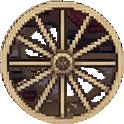
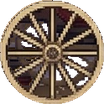
Place de la cavalerie, diligence à l'arrêt et chevaux animés, arbres fournis partout, images allégées (v0.1.110)
Claude-Session: https://claude.ai/code/session_01AW7DcpGK4sRo7mybjR7Eei

diff --git a/src/render/renderer.js b/src/render/renderer.js
@@ -1,3 +1,4 @@
+import { signBoard } from './pixfont.js';
 import { drawDecor, decor, VEIN_DECOR, drawCoachDecor } from './decors.js';
 import { folkSprite, CAST } from './folk.js';
 import { coachBody, coachWheel, horse, locoSprite, wagonSprite, fountainSprite, houseSprite } from './props.js';
@@ -141,7 +142,7 @@ function drawRainbow(c, fx, fy, minute, R) {
   c.restore();
 }
 import { buildGround, drawWaterShimmer, LIGHTS, drawSoil } from './ground.js';
-import { heroToolSheet, drawHeroPick, drawChar, drawTree, drawRock, drawCrop, drawAnimal, drawSlime, drawSwing, treeSprite, KIND_SPRITE } from './sprites.js';
+import { heroToolSheet, drawHeroPick, drawChar, drawTree, drawRock, drawCrop, drawAnimal, drawSlime, drawSwing, treeSprite, pineSprite, KIND_SPRITE } from './sprites.js';
 import { buildInterior } from './interiors.js';
 import { buildParc, buildBiome, buildQuartier, buildTown, TOWN_LIGHTS } from './town.js';
 import { buildWest } from './west.js';
@@ -180,7 +181,7 @@ function edgePattern(kind, season) {
   if (typeof document === 'undefined') return null;
   const c = document.createElement('canvas'); c.width = c.height = 128; const g = c.getContext('2d');
   if (kind === 'roche') { g.fillStyle = '#5a5058'; g.fillRect(0, 0, 128, 128); for (let i = 0; i < 40; i++) { const x = (i * 53) % 128, y = (i * 37) % 128, r = 6 + (i * 7) % 10; g.fillStyle = ['#6a6068', '#7a7078', '#4a4248'][i % 3]; g.beginPath(); g.ellipse(x, y, r, r * .7, 0, 0, 7); g.fill(); } }
-  else { g.fillStyle = '#2c5a2a'; g.fillRect(0, 0, 128, 128); for (let y = -24; y < 128; y += 14) for (let x = -16; x < 128; x += 16) { const im = treeSprite(season, ((x * 7 + y * 13) & 0xffff) % 4); if (im) g.drawImage(im, x + ((y / 14) % 2 ? 8 : 0) - 8, y - 20); } }
+  else { g.fillStyle = '#2c5a2a'; g.fillRect(0, 0, 128, 128); for (let y = -24; y < 128; y += 14) for (let x = -16; x < 128; x += 16) { const im = (((x * 3 + y * 5) >> 4) % 5 === 0 ? treeSprite : pineSprite)(season, ((x * 7 + y * 13) & 0xffff) % 4); if (im) g.drawImage(im, x + ((y / 14) % 2 ? 8 : 0) - 8, y - 20); } }
   return (EDGE_PAT[k] = g.createPattern(c, 'repeat'));
 }
 // Farmwest : locomotive à vapeur qui entre en gare par le nord sur la voie (x1-2) et s'arrête le long du quai.
@@ -194,10 +195,30 @@ function drawLoco(c, t, now, hero, leave = 0) {   // 18/11 (soir) : locomotive e
 }
 let TRAIN_EL; const trainImage = () => { if (TRAIN_EL === undefined && typeof Image !== 'undefined') { TRAIN_EL = null; const im = new Image(); im.onload = () => { TRAIN_EL = im; }; im.src = TRAIN_IMG.url; } return TRAIN_EL; };
 // Farmwest : diligence tirée par deux chevaux, cocher en chapeau sur le siège ; roues qui tournent.
-function drawCoach(c, wx, wy, now) {   // 18/11 (soir) : diligence « pixel moderne » (src/render/props.js) : caisse, cocher, chevaux au trot, roues qui tournent
+// 21/11 : l'eau de la fontaine au cheval cabré : deux jets en arc depuis la bouche du cheval, gouttes qui retombent,
+// filets des têtes de cheval sur le bord et rides dans le bassin (fractions de l'image fournie).
+function fountainWater(c, cx, by, fw, now) {
+  const fh = fw * 648 / 771, x0 = cx - fw / 2, y0 = by - fh, P = (fx, fy) => [x0 + fx * fw, y0 + fy * fh];
+  const arcs = [[[.47, .13], [.30, .02], [.22, .62]], [[.53, .13], [.70, .02], [.80, .62]]];
+  c.save();
+  for (const [a, m, b] of arcs) for (let k = 0; k < 14; k++) {
+    const t = ((now / 900) + k / 14) % 1, u = 1 - t, [ax, ay] = P(...a), [mx, my] = P(...m), [bx, bz] = P(...b);
+    const x = u * u * ax + 2 * u * t * mx + t * t * bx, y = u * u * ay + 2 * u * t * my + t * t * bz;
+    c.fillStyle = `rgba(${200 + (k % 3) * 20},240,255,${.55 + .35 * Math.sin(t * 3.1)})`; c.fillRect(x - .6, y - .6, 1.3, 1.3);
+  }
+  for (const [fx, fy] of [[.12, .66], [.88, .66], [.42, .55], [.58, .55]]) for (let k = 0; k < 4; k++) {   // petits filets qui tombent dans le bassin
+    const t = ((now / 500) + k / 4) % 1, [x, y] = P(fx, fy); c.fillStyle = `rgba(210,240,255,${.7 - t * .5})`; c.fillRect(x - .5, y + t * fh * .08, 1, 1.2);
+  }
+  for (let k = 0; k < 3; k++) {   // rides
+    const t = ((now / 1600) + k / 3) % 1, [x, y] = P(.5, .66); c.strokeStyle = `rgba(220,245,255,${.45 * (1 - t)})`; c.lineWidth = .6;
+    c.beginPath(); c.ellipse(x + (k - 1) * fw * .18, y, 2 + t * fw * .08, (2 + t * fw * .08) * .35, 0, 0, 7); c.stroke();
+  }
+  c.restore();
+}
+function drawCoach(c, wx, wy, now, moving = true) {   // 18/11 (soir) : diligence « pixel moderne » (src/render/props.js) : caisse, cocher, chevaux au trot, roues qui tournent
   const X = Math.round(wx * 16), Y = Math.round(wy * 16), fr = (now / 110 | 0) % 4, st = (now / 70 | 0) % 8;
-  c.fillStyle = 'rgba(30,15,5,.3)'; c.beginPath(); c.ellipse(X + 12, Y + 9, 52, 5, 0, 0, 7); c.fill();
-  if (drawCoachDecor(c, 'diligence_droite', X + 18, Y + 11 + ((now / 160 | 0) % 2), 126, now)) return;   // lot 32 : diligence de la planche fournie (petit cahot, roues qui tournent)
+  if (drawCoachDecor(c, 'diligence_droite', X + 18, Y + 11 + (moving ? (now / 160 | 0) % 2 : 0), 126, now, moving)) return;   // 21/11 : plus d'ombre ; chevaux animés
+  c.fillStyle = 'rgba(30,15,5,.3)'; c.beginPath(); c.ellipse(X + 12, Y + 9, 52, 5, 0, 0, 7); c.fill();   // lot 32 : diligence de la planche fournie (petit cahot, roues qui tournent)
   const h1 = horse('#5a3a22', fr), h2 = horse('#8a5a32', (fr + 2) % 4), body = coachBody(), wb = coachWheel(10, st), wf = coachWheel(8, st);
   if (h1) c.drawImage(h1, X + 40, Y - 21);
   if (body) c.drawImage(body, X - 40, Y - 64);
@@ -369,6 +390,10 @@ let swing = null;
     ctx.imageSmoothingEnabled = false;
     if (!cache.__pal) { const col = scene !== 'wild' && scene !== 'grange'; harmonize(cache, col); for (const o of cache.__over || []) { const k = document.createElement('canvas'); k.width = o.w; k.height = o.h; k.getContext('2d').drawImage(o.im, 0, 0); o.im = harmonize(k, col) || k; } }   // 19/11 : bâtiments retenus, mêmes couleurs que le décor   // lot 11g : palette unique + contours colorés (une fois par décor)
     ctx.drawImage(cache, 0, 0);
+    if (scene === 'gare') {   // 21/11 : la gare est moins haute que l'écran : on prolonge sa première et sa dernière rangée (la voie ferrée continue)
+      for (let y = -T; y > camY - T; y -= T) ctx.drawImage(cache, 0, 0, MW, T, 0, y, MW, T);
+      for (let y = MH; y < camY + vh + T; y += T) ctx.drawImage(cache, 0, MH - T, MW, T, 0, y, MW, T);
+    }
     const drawSigns = (only) => { if (!(cache.__signs && cache.__signs.length)) return;   // enseignes nettes (19/11 : redessinées si un toit vient de recouvrir le héros)   // enseignes réécrites nettes, à la résolution de l'écran (lisibles à tout zoom)
       ctx.save(); ctx.setTransform(1, 0, 0, 1, 0, 0);
       for (const sg of cache.__signs) { if (only && !only.some(r => sg.x < r[2] && sg.x + sg.w > r[0] && sg.y < r[3] && sg.y + sg.h > r[1])) continue;
@@ -519,7 +544,8 @@ let swing = null;
     // (bijou d'Igor retiré le 17/11 : quête supprimée)
     if (scene === 'gare' && S.intro && S.intro.step !== 'done' && !(g.ride && g.ride.scene === 'gare' && g.ride.t > 6)) list.push({ z: 0.5, d: () => drawLoco(ctx, S.intro.step === 'train' ? (g.introT || 0) / 1000 : 99, now, g.introHidden ? S.look : null, g.ride && g.ride.scene === 'gare' ? g.ride.t : 0) });   // lot 8 : elle repart une fois le héros dans la diligence   // Farmwest : la locomotive à quai
     if (g.cueille && g.cueille.scene === scene) { const q = g.cueille; list.push({ z: 9990, d: () => { const x = q.x * T, y = q.y * T - 6; ctx.fillStyle = 'rgba(0,0,0,.6)'; ctx.fillRect(x - 1, y - 1, 18, 5); ctx.fillStyle = '#7ad04a'; ctx.fillRect(x, y, Math.round(16 * q.n / CUEILLE_HITS), 3); } }); }   // jauge de cueillette
-    if (g.ride && g.ride.scene === scene) list.push({ z: g.ride.y + .2, d: () => drawCoach(ctx, g.ride.x, g.ride.y, now) });   // la diligence
+    if (!g.ride && g.parkedCoach && g.parkedCoach.scene === scene) { const P = g.parkedCoach; list.push({ z: P.y + .2, d: () => drawCoach(ctx, P.x, P.y, now, false) }); }
+    if (g.ride && g.ride.scene === scene) { const R = g.ride, mv = R._px == null || Math.abs(R.x - R._px) + Math.abs(R.y - R._py) > 1e-4; R._px = R.x; R._py = R.y; if (mv) R._mt = now; list.push({ z: R.y + .2, d: () => drawCoach(ctx, R.x, R.y, now, now - (R._mt || 0) < 150) }); }   // la diligence
     if (scene === 'farm' && testSwordHere(S)) list.push({ z: TEST_SWORD.y + .4, d: () => {
       const b = Math.round(Math.sin(now / 250) * 1.5), x = TEST_SWORD.x * T, y = TEST_SWORD.y * T;
       ctx.fillStyle = 'rgba(0,0,0,.25)'; ctx.fillRect(x + 3, y + 12, 10, 2);
@@ -609,8 +635,12 @@ let swing = null;
       const n = Math.floor(10 * hits / ROCK_HITS);   // fissures qui s'étendent (une tous les 1 000 coups)
       for (let k = 0; k < n; k++) { const cx = 10 + (k * 23) % (w - 20), cy = -12 - (k * 37) % (Hh - 30); for (let s = 0; s < 6; s++) R2(cx + (s % 2) * 2, cy - s * 3, 1, 3, '#2a2620'); }
     } }); }
-    if (scene === 'rondpoint' && decor('fontaine')) list.push({ z: 10.6, d: () => drawDecor(ctx, 'fontaine', 12.5 * T + 8, 8.5 * T + 8 + 34 * .62 + 8, 88) });   // lot 32 : fontaine au cheval cabré
-    if (scene === 'town' && decor('fontaine')) list.push({ z: TOWN_B2.F.y + 2.6, d: () => drawDecor(ctx, 'fontaine', TOWN_B2.F.x * T + 24, TOWN_B2.F.y * T + 24 + 23 * .62 + 8, 60) });
+    if (scene === 'rondpoint' && decor('fontaine')) list.push({ z: 10.6, d: () => { const fw = 88, cx = 12.5 * T + 8, by = 8.5 * T + 8 + 34 * .62 + 8; drawDecor(ctx, 'fontaine', cx, by, fw); fountainWater(ctx, cx, by, fw, now); } });   // lot 32 : fontaine au cheval cabré ; 21/11 : l'eau coule
+    if (scene === 'rondpoint') list.push({ z: 6.9, d: () => {   // 21/11 : pancarte « Place de la cavalerie »
+      const R2 = (x, y, w, h, k) => { ctx.fillStyle = k; ctx.fillRect(x, y, w, h); }, px = 16 * T + 8, py = 6 * T;
+      R2(px - 1, py - 2, 3, 17, '#5b3a22'); R2(px - 3, py + 14, 7, 2, 'rgba(30,15,5,.3)');
+      signBoard(R2, px, py - 6, 'PLACE DE LA CAVALERIE');
+    } });
     if (scene === 'town' && decor('saloon')) list.push({ z: TOWN_B2.R.y + TOWN_B2.R.h - .05, d: () => drawDecor(ctx, 'saloon', (TOWN_B2.R.x + TOWN_B2.R.w / 2) * T, (TOWN_B2.R.y + TOWN_B2.R.h) * T + 7, 112) });   // lot 32 : le saloon
     if (scene === 'place') list.push({ z: DUMP_POS.y + .9, d: () => {   // 20/11 : la décharge (benne et tas de ferraille)
       const x = DUMP_POS.x * T, y = DUMP_POS.y * T, R2 = (a, b, w, h, k) => { ctx.fillStyle = k; ctx.fillRect(x + a, y + b, w, h); };

diff --git a/src/render/town.js b/src/render/town.js
@@ -1,4 +1,4 @@
-import { decor } from './decors.js';
+import { decor, drawDecor } from './decors.js';
 import { fountainSprite, facadeSprite, houseSprite , blit } from './props.js';
 import { paintGrass, paintOchre, paintRoad, paintPlanks, softEdge, OCHRE, paintRiver, paintBridge, paintCliff, autotile, ROAD, canopy, dress, roofFor, softPatches, barrel } from './terrain.js';
 // Centre du village pré-rendu : place pavée, halle du marché, panneau d'affichage,
@@ -215,7 +215,7 @@ export function buildTown(season) {
   }, { wall: '#8a6a4a' });
   // fontaine (x11-13, y8-10)
   const fx = TOWN_B.F.x * T + 24, fy = TOWN_B.F.y * T + 24;
-  if (!decor('fontaine')) { const im = fountainSprite(23); if (im) g.drawImage(im, Math.round(fx - im.width / 2), Math.round(fy + 23 * .62 + 6 - im.height)); }   // 18/11 (soir) : fontaine « pixel moderne »
+  if (false) { const im = fountainSprite(23); if (im) g.drawImage(im, Math.round(fx - im.width / 2), Math.round(fy + 23 * .62 + 6 - im.height)); }   // 18/11 (soir) : fontaine « pixel moderne »
 
   for (let y = 0; y < H; y++) for (let x = 0; x < W; x++) {
     const ch = L[y][x], px = x * T, py = y * T;
@@ -225,7 +225,7 @@ export function buildTown(season) {
       r2(7, 7, 2, 25, '#2b2730'); r2(5, 30, 6, 2, '#2b2730'); r2(4, 1, 8, 7, '#2b2730'); r2(5, 2, 6, 5, '#ffd98a'); r2(3, 0, 10, 2, '#3a3540'); blit(g, lc, px, py - 17); }
   }
   canopy(g, W, H, (x, y) => (L[y] || '')[x] === 'T' && [[1, 0], [-1, 0], [0, 1], [0, -1]].filter(([a, b]) => (L[y + b] || '')[x + a] === 'T').length >= 2, season);   // lot 11b : canopée continue
-  for (let y = 0; y < H; y++) for (let x = 0; x < W; x++) if (L[y][x] === 'T') g.drawImage(treeSprite(season, (x + y) % 4), x * T - 9, y * T - 28);
+  for (let y = 0; y < H; y++) for (let x = 0; x < W; x++) if (L[y][x] === 'T') { if ([[1, 0], [-1, 0], [0, 1], [0, -1], [2, 0], [-2, 0], [0, 2], [0, -2]].some(([a, b]) => (L[y + b] || '')[x + a] === 'D')) { drawDecor(g, 'broussaille', x * T + 8, y * T + 15, 13); continue; } g.drawImage(treeSprite(season, (x + y) % 4), x * T - 9, y * T - 28); }   // 21/11 : rien qui déborde sur une sortie
   // (villa du Maire effacée le 17/11 : Manu vit dans son ranch)
   drawHedges(R, LAYOUTS.town);   // haies de bordure
   // lot 11f : décor dense (tonneaux, caisses, fleurs, cailloux)
@@ -334,7 +334,7 @@ export function buildQuartier(season) {
   for (const [x, yb] of [[3 * T, 10], [33 * T, 10], [20 * T, 19], [28 * T, 19]]) { const by = yb * T; R(x, by + 6, 22, 3, '#8a5a32'); R(x, by + 6, 22, 1, '#c99560'); R(x + 1, by + 9, 2, 3, '#5b3a22'); R(x + 19, by + 9, 2, 3, '#5b3a22'); } for (const x of []) { R(x, 10 * T + 6, 22, 3, '#8a5a32'); R(x, 10 * T + 6, 22, 1, '#c99560'); R(x + 1, 10 * T + 9, 2, 3, '#5b3a22'); R(x + 19, 10 * T + 9, 2, 3, '#5b3a22'); }
   drawHedges(R, L);
   canopy(g, W, H, (x, y) => (L[y] || '')[x] === 'T' && [[1, 0], [-1, 0], [0, 1], [0, -1]].filter(([a, b]) => (L[y + b] || '')[x + a] === 'T').length >= 2, season);   // lot 11b : canopée continue
-  for (let y = 0; y < H; y++) for (let x = 0; x < W; x++) if (L[y][x] === 'T') g.drawImage(treeSprite(season, (x + y) % 4), x * T - 9, y * T - 28);
+  for (let y = 0; y < H; y++) for (let x = 0; x < W; x++) if (L[y][x] === 'T') { if ([[1, 0], [-1, 0], [0, 1], [0, -1], [2, 0], [-2, 0], [0, 2], [0, -2]].some(([a, b]) => (L[y + b] || '')[x + a] === 'D')) { drawDecor(g, 'broussaille', x * T + 8, y * T + 15, 13); continue; } g.drawImage(treeSprite(season, (x + y) % 4), x * T - 9, y * T - 28); }   // 21/11 : rien qui déborde sur une sortie
   return c;
 }
 
@@ -429,7 +429,7 @@ export function buildParc(season) {
   for (let k = 0; k < W * T; k += 12) { R(k, 8 * T + 2 + Math.round(Math.sin(k / 30) * 3), 2, 2, ['#f2c832', '#e8402a', '#3a8ae0', '#4ab04a'][(k / 12 | 0) % 4]); }   // guirlande
   signBoard(R, 17 * T, 21 * T, 'FÊTE FORAINE');
   canopy(g, W, H, (x, y) => (L[y] || '')[x] === 'T' && [[1, 0], [-1, 0], [0, 1], [0, -1]].filter(([a, b]) => (L[y + b] || '')[x + a] === 'T').length >= 2, season);   // lot 11b : canopée continue
-  for (let y = 0; y < H; y++) for (let x = 0; x < W; x++) if (L[y][x] === 'T') g.drawImage(treeSprite(season, (x + y) % 4), x * T - 9, y * T - 28);
+  for (let y = 0; y < H; y++) for (let x = 0; x < W; x++) if (L[y][x] === 'T') { if ([[1, 0], [-1, 0], [0, 1], [0, -1], [2, 0], [-2, 0], [0, 2], [0, -2]].some(([a, b]) => (L[y + b] || '')[x + a] === 'D')) { drawDecor(g, 'broussaille', x * T + 8, y * T + 15, 13); continue; } g.drawImage(treeSprite(season, (x + y) % 4), x * T - 9, y * T - 28); }   // 21/11 : rien qui déborde sur une sortie
   return c;
 }
 

diff --git a/src/render/sprites.js b/src/render/sprites.js
@@ -1,4 +1,4 @@
-import { drawDecor } from './decors.js';
+import { drawDecor, decor } from './decors.js';
 // Sprites pixel art procéduraux, ombrés et contourés, mis en cache.
 import { CFG } from '../config.js';
 import { CROPS } from '../data/crops.js';
@@ -405,7 +405,7 @@ const TREE_PAL = [
   ['#7e3417', '#c25e1d', '#eea13a', null],
   ['#4f5d63', '#7d9096', '#eef5f7', null]
 ];
-export function treeSprite(season, v) {
+function treeSprite0(season, v) {
   return cache('t' + season + v, () => {
     const s = canvas(34, 44), c = s.getContext('2d'), p = TREE_PAL[season], r = rng(v * 97 + 3);   // 7d : canopée sur 0-31
     // tronc + racines
@@ -428,7 +428,7 @@ export function treeSprite(season, v) {
 }
 // Sapin : étages de branches en triangle, reste vert l'hiver (neige sur les branches).
 const PINE_PAL = [['#1f4a34', '#2f6b47', '#4f9461'], ['#1c4530', '#2b6342', '#468a58'], ['#1f4a34', '#2f6b47', '#5a9461'], ['#1f4234', '#2c5c45', '#eef5f7']];
-export function pineSprite(season, v) {
+function pineSprite0(season, v) {
   return cache('p' + season + v, () => {
     const s = canvas(34, 46), c = s.getContext('2d'), p = PINE_PAL[season], r = rng(v * 53 + 11);
     c.fillStyle = '#5b3a22'; c.fillRect(15, 34, 4, 10); c.fillStyle = '#7a4f2e'; c.fillRect(15, 34, 1, 10);
@@ -447,7 +447,7 @@ export function pineSprite(season, v) {
 }
 // Bouleau : tronc blanc tacheté de noir, feuillage léger et clair.
 const BIRCH_PAL = [['#4f8a35', '#79b54a', '#b4dc6e'], ['#47802f', '#6fa843', '#a2d062'], ['#b8761a', '#e6ad2c', '#ffe07a'], [null, null, null]];
-export function birchSprite(season, v) {
+function birchSprite0(season, v) {
   return cache('b' + season + v, () => {
     const s = canvas(34, 46), c = s.getContext('2d'), p = BIRCH_PAL[season], r = rng(v * 31 + 7);
     c.fillStyle = '#e9e4d6'; c.fillRect(15, 18, 4, 26); c.fillStyle = '#c9c2b0'; c.fillRect(18, 18, 1, 26);
@@ -488,8 +488,20 @@ export function pebbleSprite(v) {
     return outline(s, '#4a2a18');
   });
 }
+// 21/11 (demande de l'utilisateur) : tous les arbres viennent de la planche fournie — chêne → arbre en fleurs, sapin → sapin,
+// bouleau → cyprès. Même taille d'image que les anciens arbres (les fonds pré-dessinés restent alignés) ; ancien dessin en secours.
+const TREE_SUB = new Map();
+function viaDecor(orig, name, w) {
+  return (season, v) => {
+    const base = orig(season, v); if (!decor(name)) return base;
+    const k = name + season + ':' + v; let c = TREE_SUB.get(k); if (c) return c;
+    c = canvas(base.width, base.height); const g = c.getContext('2d');
+    drawDecor(g, name, base.width / 2, base.height - 1, w); TREE_SUB.set(k, c); return c;
+  };
+}
+export const treeSprite = viaDecor(treeSprite0, 'arbre_fleurs', 34), pineSprite = viaDecor(pineSprite0, 'sapin', 26), birchSprite = viaDecor(birchSprite0, 'cypres', 14);
 export const KIND_SPRITE = { oak: treeSprite, pine: pineSprite, birch: birchSprite };
-const TREE_DECOR = { pine: 'sapin', cypres: 'cypres', fleurs: 'arbre_fleurs' }, TREE_W = { sapin: 26, cypres: 14, arbre_fleurs: 34 };
+const TREE_DECOR = { pine: 'sapin', cypres: 'cypres', fleurs: 'arbre_fleurs', oak: 'arbre_fleurs', birch: 'cypres' }, TREE_W = { sapin: 26, cypres: 14, arbre_fleurs: 34 };
 const KIND_IDS = ['oak', 'pine', 'birch'];
 // Jeune arbre : pousse (jour 0), arbuste (jour 1), petit arbre (jour 2), puis adulte.
 function saplingSprite(kind, stage, season) {

diff --git a/src/render/decors.js b/src/render/decors.js
@@ -42,12 +42,17 @@ export function drawDecorRot(c, n, cx, cy, w, ang) {
   const s = Math.abs(c.getTransform().a) || 1, im = scaled(n, Math.max(1, Math.round(w * s)), Math.max(1, Math.round(w * s))); if (!im) return false;
   c.save(); c.translate(cx, cy); c.rotate(ang); c.drawImage(im, -w / 2, -w / 2, w, w); c.restore(); return true;
 }
-// La diligence : caisse et chevaux, puis les roues qui tournent (angle selon le temps).
-export function drawCoachDecor(c, n, cx, by, w, now) {
+// La diligence : caisse, chevaux qui trottent (corps et têtes qui dodelinent, en décalé), puis les roues qui tournent.
+// Coordonnées des roues et des chevaux données dans l'image d'origine (626 px de large).
+const COACH_W0 = 626, HORSE_X0 = 385, HEAD_X0 = 540;
+export function drawCoachDecor(c, n, cx, by, w, now, moving = true) {
   const src = decor(n); if (!src || !decor('roue')) return false;
-  const k = w / src.naturalWidth, x0 = cx - w / 2, y0 = by - src.naturalHeight * k;
-  drawDecor(c, n, cx, by, w);
-  const ang = (now / 1000) * 5 * (n === 'diligence_gauche' ? -1 : 1);
-  for (const [wx, wy, r] of COACH_WHEELS[n] || []) drawDecorRot(c, 'roue', x0 + wx * k, y0 + wy * k, 2 * r * k, ang * 62 / r);
+  const k = w / COACH_W0, h = w * src.naturalHeight / src.naturalWidth, x0 = cx - w / 2, y0 = by - h, left = n === 'diligence_gauche';
+  const s = Math.abs(c.getTransform().a) || 1, im = scaled(n, Math.max(1, Math.round(w * s)), Math.max(1, Math.round(h * s)));
+  const sx = im.width / w, part = (a, b, dy) => { const xa = left ? w - b * k : a * k, xb = left ? w - a * k : b * k; c.drawImage(im, xa * sx, 0, (xb - xa) * sx, im.height, x0 + xa, y0 + dy, xb - xa, h); };
+  const t = now / (moving ? 95 : 260), body = Math.round(Math.sin(t)) * (moving ? 1 : .5), head = Math.round(Math.sin(t + 1.4) * (moving ? 1.5 : 1));
+  part(0, HORSE_X0, 0); part(HORSE_X0, HEAD_X0, body); part(HEAD_X0, COACH_W0, body + head);
+  const ang = moving ? (now / 1000) * 5 * (left ? -1 : 1) : 0;
+  for (const [wx, wy, r] of COACH_WHEELS[n] || []) drawDecorRot(c, 'roue', x0 + wx * k, y0 + wy * k * (COACH_W0 / src.naturalWidth) * (src.naturalWidth / COACH_W0), 2 * r * k, ang * 62 / r);
   return true;
 }

diff --git a/src/render/west.js b/src/render/west.js
@@ -134,9 +134,11 @@ export function buildWest(name, season) {
   { const spots = []; for (let y = 2; y < H - 2; y++) for (let x = 2; x < W - 2; x++) { const ch = at(x, y); if ((ch === 's' || ch === 'g') && at(x, y - 1) !== '.' && at(x, y + 1) !== '.' && at(x - 1, y) !== '.' && at(x + 1, y) !== '.' && ((x * 31 + y * 17) % (DESERT.includes(name) ? 19 : 41)) === 0) spots.push([x, y]); }
     for (const [x, y] of spots) { const k = (x * 7 + y) % 5, n = k < 2 ? 'broussaille' : k < 4 ? 'cactus_petit' : 'cactus_grand'; drawDecor(g, n, x * T + 8, y * T + 15, n === 'broussaille' ? 13 : n === 'cactus_petit' ? 9 : 12); } }
   // 6. arbres (bords et bosquets), triés de haut en bas
-  canopy(g, W, H, (x, y) => (L[y] || '')[x] === 'T' && [[1, 0], [-1, 0], [0, 1], [0, -1]].filter(([a, b]) => (L[y + b] || '')[x + a] === 'T').length >= 2, season);   // lot 11b : canopée continue
+  const nearDoor = (x, y) => [[1, 0], [-1, 0], [0, 1], [0, -1], [2, 0], [-2, 0], [0, 2], [0, -2]].some(([a, b]) => at(x + a, y + b) === 'D');   // 21/11 : rien qui déborde sur une sortie
+  canopy(g, W, H, (x, y) => (L[y] || '')[x] === 'T' && !nearDoor(x, y) && [[1, 0], [-1, 0], [0, 1], [0, -1]].filter(([a, b]) => (L[y + b] || '')[x + a] === 'T').length >= 2, season);   // lot 11b : canopée continue
   for (let y = 0; y < H; y++) for (let x = 0; x < W; x++) if (at(x, y) === 'T') {
     const v = (x * 7 + y * 3) % 4;
+    if (nearDoor(x, y)) { drawDecor(g, 'broussaille', x * T + 8, y * T + 15, 13); continue; }
     // 7d : côté désert (gare, rond-point, ranch), des cactus se mêlent aux arbres de bordure
     if (DESERT.includes(name) && (x * 5 + y * 3) % 4 === 0) { if (drawDecor(g, (x + y) % 3 ? 'cactus_grand' : 'cactus_petit', x * T + 8, y * T + 15, (x + y) % 3 ? 13 : 9)) continue; g.drawImage(cactusSprite(season, v), x * T - 3, y * T - 18); continue; }
     const im = (x + y) % 2 ? pineSprite(season, v) : treeSprite(season, v);

diff --git a/tests/ergonomie.test.js b/tests/ergonomie.test.js
@@ -58,7 +58,7 @@ test('interagir avec le décor : un petit texte du héros', () => {
   assert.equal(act2(g, 3, 2), 'look');
   assert.equal(said.at(-1), EXAMINE.farm.house);
   assert.equal(act2(g, 12, 24), 'look', 'la mare');
-  S.scene = 'town'; act2(g, 16, 7);
+  S.scene = 'rondpoint'; S.x = 12.5; S.y = 10.6; act2(g, 12, 9);   // 21/11 : la fontaine du centre-ville est retirée ; celle du rond-point reste
   assert.equal(said.at(-1), EXAMINE.tiles.F);
   S.scene = 'house'; assert.equal(act2(g, 4, 4), 'journal', '19/11 : la table de la cabane porte le journal');
   assert.notEqual(act2(g, 10, 3), 'look', 'le lit sert à dormir');

diff --git a/src/version.js b/src/version.js
@@ -1,4 +1,4 @@
 // Version du jeu (semver horodaté). Fichier écrit par `node tools/version.mjs` : ne pas modifier à la main.
 // Patch = automatique à chaque publication ; mineure et majeure = seulement quand l'utilisateur le demande.
-export const VERSION = { major: 0, minor: 1, patch: 109, date: '2026-11-21T01:02' };
+export const VERSION = { major: 0, minor: 1, patch: 110, date: '2026-11-21T09:46' };
 export const versionLabel = (v = VERSION) => `v${v.major}.${v.minor}.${v.patch} · ${v.date.slice(8, 10)}/${v.date.slice(5, 7)}/${v.date.slice(0, 4)} ${v.date.slice(11, 16)}`;

diff --git a/src/systems/intro.js b/src/systems/intro.js
@@ -34,6 +34,7 @@ export function introTick(g, dt) {
   const S = g.S;
   if (!introActive(S) || g.introWait) return null;
   const I = S.intro;
+  g.parkedCoach = ['train', 'descente', 'myst'].includes(I.step) ? { scene: 'gare', x: RIDE.gare.from, y: RIDE.gare.y } : null;   // 21/11 : la diligence attend déjà, à l'arrêt
   if (I.step === 'train') {
     if (S.scene !== 'gare') { S.scene = 'gare'; g.bus.emit('scene', 'gare'); }
     Object.assign(S, TRAIN_DOOR); g.introHidden = true;   // le héros arrive DANS le train

diff --git a/src/world/scenes.js b/src/world/scenes.js
@@ -838,3 +838,6 @@ export function widenRoads(sc) {
   LAYOUTS[sc] = L.map(r => r.join(''));
 }
 for (const sc of Object.keys(SCENES)) if (SCENES[sc].outdoor && LAYOUTS[sc] && !WIDE_SKIP.has(sc)) widenRoads(sc);
+
+// 21/11 (demande de l'utilisateur) : plus de fontaine au centre-ville (la place pavée reste) ; seule la fontaine du rond-point (place de la cavalerie) est gardée.
+LAYOUTS.town = LAYOUTS.town.map(r => r.replace(/F/g, '.'));

diff --git a/tools/decors-from-planches.py b/tools/decors-from-planches.py
@@ -112,3 +112,24 @@ if __name__ == '__main__' and sys.argv[1:] == ['--all']:
     for f in os.listdir('assets/decors'):
         if f.endswith('.png') and f != 'roue.png': defringe('assets/decors/' + f, big=f.startswith('diligence'))
     wheels()
+# 21/11 : le panneau du saloon dit seulement « SALOON » (on efface « RED EYE » et on recentre le mot).
+def saloon_sign(path='assets/decors/saloon.png'):
+    im = np.array(Image.open(path).convert('RGBA')); fill = np.median(im[322:330, 372:388, :].reshape(-1, 4), axis=0).astype('uint8')
+    word = im[350:404, 364:616].copy()
+    im[310:404, 364:616] = fill
+    im[331:385, 364:616] = word   # le mot remonte au milieu du panneau
+    Image.fromarray(im).save(path)
+if __name__ == '__main__' and sys.argv[1:] == ['--all']: saloon_sign()
+# 21/11 : poids réduit sans perte visible — chaque image est ramenée à 4 × sa largeur d'affichage dans le monde
+# (le plus grand agrandissement de l'écran : téléphone haute définition au zoom le plus proche), PNG optimisé.
+DISPLAY_W = { 'saloon': 112, 'fontaine': 88, 'diligence_droite': 126, 'diligence_gauche': 126, 'diligence_face': 60, 'diligence_dos': 60, 'roue': 26,
+  'sapin': 26, 'cypres': 14, 'arbre_fleurs': 34, 'cactus_grand': 13, 'cactus_petit': 9, 'broussaille': 13, 'rocher_grand': 28, 'roche_pilier': 26,
+  'rocher_bas': 20, 'roche_plate': 19, 'cailloux': 17, 'caillou': 13 }
+def shrink():
+    import os
+    for f in os.listdir('assets/decors'):
+        if not f.endswith('.png'): continue
+        n = f[:-4]; w0 = DISPLAY_W.get(n, 22) * 4; im = Image.open('assets/decors/' + f).convert('RGBA')
+        if im.width > w0: im = im.resize((w0, max(1, round(im.height * w0 / im.width))), Image.LANCZOS)
+        im.save('assets/decors/' + f, optimize=True)
+if __name__ == '__main__' and sys.argv[1:] == ['--all']: shrink()

diff --git a/docs/ROADMAP.md b/docs/ROADMAP.md
@@ -314,9 +314,10 @@ Décrit par l'utilisateur : cabane à moitié prix ; journal dans la cabane (200
 ## Lot 32 — Nouveaux décors d'après les images de l'utilisateur ✅ v0.1.108
 - Découpe : `python3 -I tools/decors-from-planches.py --all` (docs/sprites/decors/*.jpg → assets/decors/*.png, fond retiré, trous bouchés, qualité d'origine) ; affichage net par `src/render/decors.js` (réduit une fois à la taille de l'écran, en cache ; ancien dessin en secours).
 - [x] Cactus (grands, petits) et broussailles un peu partout (zones de l'Ouest) ; cailloux de 6 formes (petit, tas, bas, plat ; gros rocher ; rocher et pilier) ; filons cuivre, étain, argent, fer, or, cobalt, zinc, nickel (💡 la pierre blanche « zinc » sert au nickel) ; sapin, cyprès et arbre en fleurs (sapins partout, cyprès et arbres en fleurs dans le dédale profond).
-- [x] Saloon du centre-ville (« Red Eye Saloon » sur l'image ; ❓ garder ce nom ?).
-- [x] Fontaine au cheval cabré (rond-point et centre-ville).
+- [x] Saloon du centre-ville (21/11 : le panneau dit seulement « SALOON », décision de l'utilisateur).
+- [x] Fontaine au cheval cabré au rond-point, la **place de la cavalerie** (pancarte, eau qui coule, v0.1.110). Fontaine du centre-ville retirée (21/11).
 - [x] Diligence de l'intro (profil droit ; ⏳ gauche, face et dos prêts pour les futurs trajets). v0.1.109 : franges violettes retirées, roues découpées à part qui tournent.
+- [x] v0.1.110 : diligence déjà à l'arrêt à la gare au début de l'intro, chevaux animés (corps et têtes), plus d'ombre ; voie ferrée prolongée au-dessus et au-dessous de la gare ; **tous les arbres** d'après la planche (chêne → arbre en fleurs, sapin → sapin, bouleau → cyprès) ; plus d'arbre qui déborde sur une sortie ; images 2,9 → 1,1 Mo (ramenées à 4 × leur taille d'affichage).
 - [x] v0.1.109 : caméra façon Stardew (centrée sur le héros, arrêtée aux bords ; petite zone centrée) ; plus d'arbre ni de barrière au milieu d'une route ni à côté d'une sortie (sorties sur toute la largeur de la route, test).
 
 ## Lot 28 — Intro jouable et racontée (demande du 20/11) ✅ v0.1.92

diff --git a/docs/CARNET.md b/docs/CARNET.md
@@ -160,3 +160,4 @@ Fait : sol de la ferme (v0.1.5) ; **7a** palette Far West et sols (centre-ville 
 - 21/11 : lot 31 (v0.1.107) — routes 2 → 4 cases partout, passages élargis. Lot 32 : 4 planches d'images fournies (cactus, cailloux, filons, arbres ; saloon ; fontaine ; diligence).
 - 21/11 : lot 32 (v0.1.108) — décors des 4 planches fournies (cactus, broussailles, cailloux, filons, arbres, saloon, fontaine, diligence). ❓ Nom « Red Eye Saloon ».
 - 21/11 : v0.1.109 — caméra façon Stardew (arrêtée aux bords), diligence nettoyée (roues qui tournent), sorties sur toute la largeur des routes.
+- 21/11 (matin) : v0.1.110 — panneau « SALOON » seul, fontaine du centre-ville retirée, place de la cavalerie (pancarte, eau), diligence à l'arrêt et chevaux animés, arbres fournis partout, images allégées. Marche vers la gauche : même vitesse mesurée (4,5 cases/s), ❓ à préciser.
